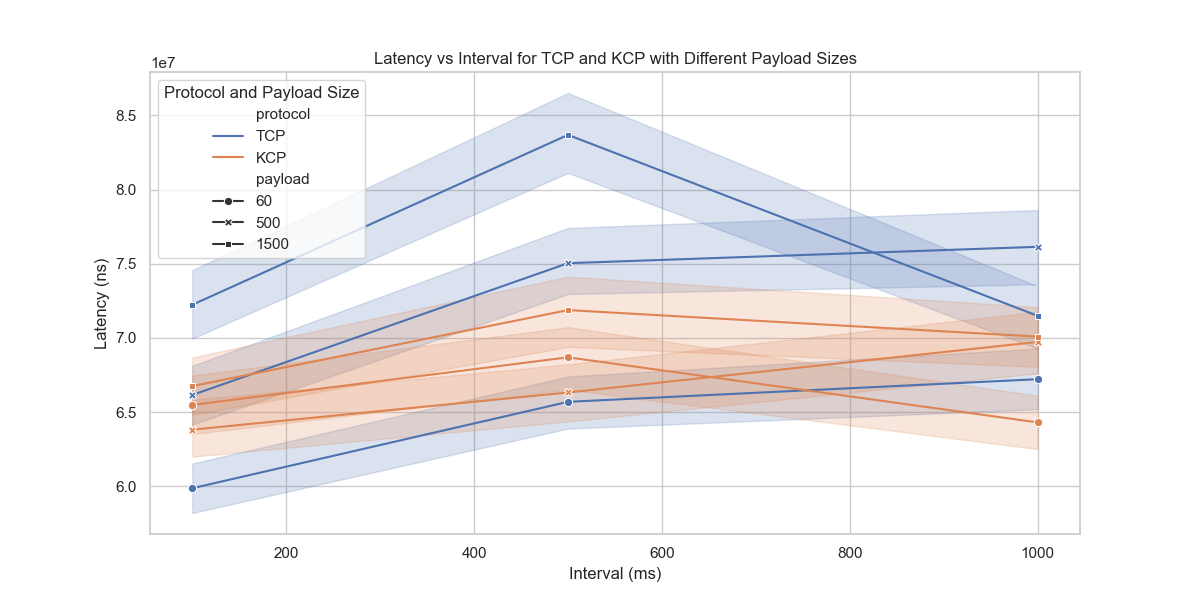
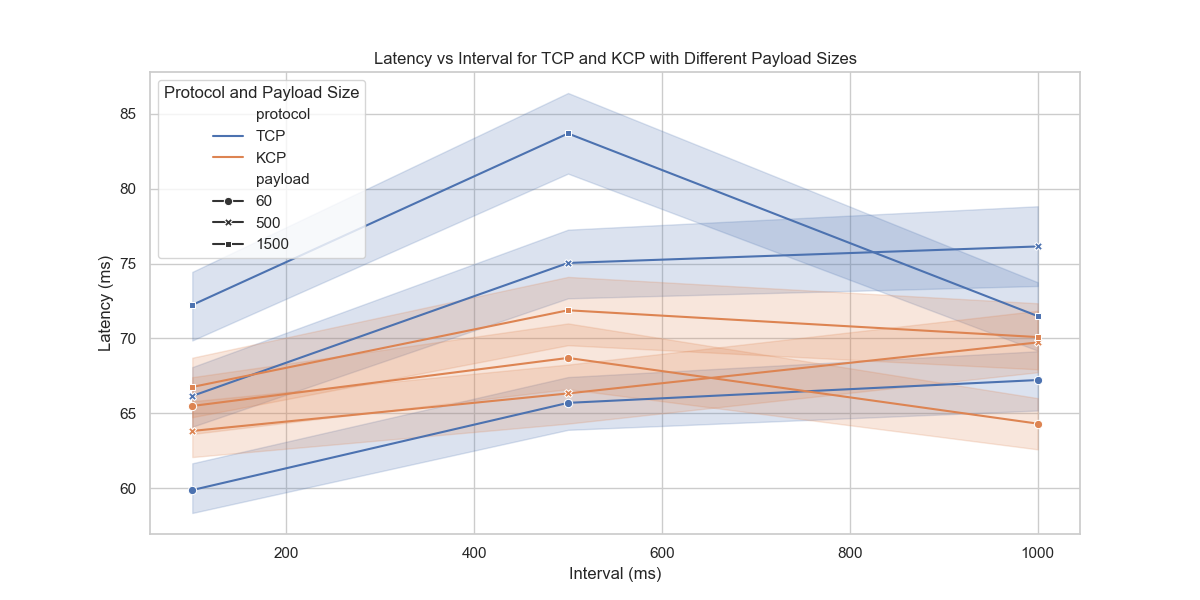
optimize data output logic, and change ns to ms in visualization

diff --git a/visual/visual.py b/visual/visual.py
@@ -6,6 +6,9 @@ import seaborn as sns
 file_path = './result.xlsx'  # Update the file path to your specific file
 df = pd.read_excel(file_path)
 
+# change ns to ms
+df['latency'] = df['latency'] / 1_000_000
+
 # Set up the plotting aesthetics
 sns.set(style="whitegrid")
 
@@ -13,7 +16,7 @@ sns.set(style="whitegrid")
 plt.figure(figsize=(12, 6))
 sns.boxplot(x='protocol', y='latency', hue='network', data=df)
 plt.title('Latency Distribution by Protocol and Network Type')
-plt.ylabel('Latency (ns)')
+plt.ylabel('Latency (ms)')
 plt.xlabel('Protocol')
 plt.legend(title='Network Type')
 plt.show()
@@ -22,7 +25,7 @@ plt.show()
 plt.figure(figsize=(12, 6))
 sns.boxplot(x='protocol', y='latency', hue='payload', data=df)
 plt.title('Latency Distribution by Protocol and Payload Size')
-plt.ylabel('Latency (ns)')
+plt.ylabel('Latency (ms)')
 plt.xlabel('Protocol')
 plt.legend(title='Payload Size')
 plt.show()
@@ -31,7 +34,7 @@ plt.show()
 plt.figure(figsize=(12, 6))
 sns.lineplot(x='interval', y='latency', hue='protocol', style='payload', data=df, markers=True, dashes=False)
 plt.title('Latency vs Interval for TCP and KCP with Different Payload Sizes')
-plt.ylabel('Latency (ns)')
+plt.ylabel('Latency (ms)')
 plt.xlabel('Interval (ms)')
 plt.legend(title='Protocol and Payload Size')
 plt.show()
@@ -40,7 +43,7 @@ plt.show()
 plt.figure(figsize=(12, 6))
 sns.barplot(x='protocol', y='latency', hue='network', data=df, errorbar='sd')
 plt.title('Average Latency by Protocol and Network Type')
-plt.ylabel('Latency (ns)')
+plt.ylabel('Latency (ms)')
 plt.xlabel('Protocol')
 plt.legend(title='Network Type')
 plt.show()

diff --git a/experiment/util.go b/experiment/util.go
@@ -4,7 +4,6 @@ import (
 	proto "github.com/huin/mqtt"
 	"github.com/tealeg/xlsx/v3"
 	"log"
-	"time"
 )
 
 // clearChan: clean all existing msg in channel, avoiding count duplicated requests & latency
@@ -27,14 +26,18 @@ func openOrCreateXlsx() *xlsx.File {
 }
 
 func initSheetAndHead(wb *xlsx.File, header []string) *xlsx.Sheet {
-	sheetName := time.Now().Format("20060102150405")
-	sheet, err := wb.AddSheet(sheetName)
-	if err != nil {
-		log.Fatal(err)
+	sheetName := "Sheet1"
+	sh, ok := wb.Sheet[sheetName]
+	if !ok {
+		sh, err := wb.AddSheet(sheetName)
+		if err != nil {
+			log.Fatal(err)
+		}
+		row := sh.AddRow()
+		for _, title := range header {
+			row.AddCell().SetString(title)
+		}
+		return sh
 	}
-	row := sheet.AddRow()
-	for _, title := range header {
-		row.AddCell().SetString(title)
-	}
-	return sheet
+	return sh
 }

diff --git a/experiment/stats.go b/experiment/stats.go
@@ -25,6 +25,9 @@ func (record *testRecord) write2Row(sheet *xlsx.Sheet) {
 	row.AddCell().Value = record.proto
 	row.AddCell().SetInt64(int64(record.latency))
 	row.AddCell().Value = record.errMsg
+	row.AddCell().SetInt64(int64(*payloadSize))
+	row.AddCell().SetInt64(int64(*reqInterval / 1e6))
+	row.AddCell().Value = *network
 }
 
 var (
@@ -35,6 +38,9 @@ var (
 		"protocol",
 		"latency (nanosecond)",
 		"error message",
+		"payload",
+		"interval",
+		"network",
 	})
 )
 

diff --git a/experiment/main.go b/experiment/main.go
@@ -12,6 +12,7 @@ var (
 	timeout        = flag.Duration("timeout", time.Second, "the timeout for each request")
 	reqInterval    = flag.Duration("interval", 100*time.Millisecond, "the interval between requests")
 	outputFile     = flag.String("output", "data.xlsx", "the file to store testing result")
+	network        = flag.String("network", "ethernet", "e.g. ethernet, wifi")
 )
 
 func main() {
